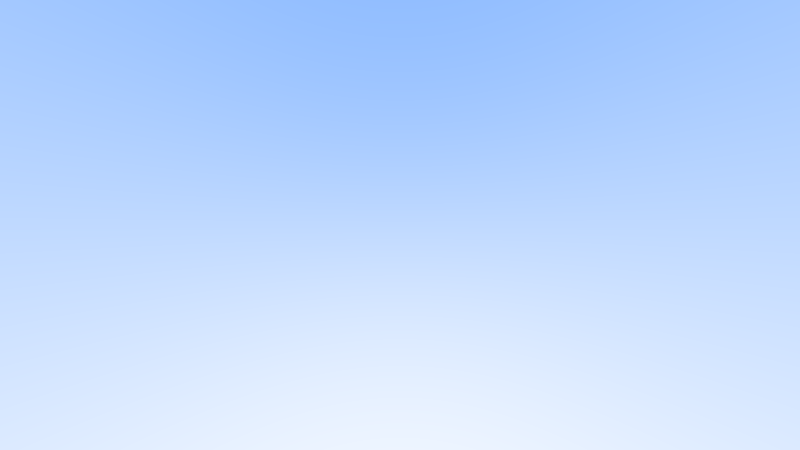
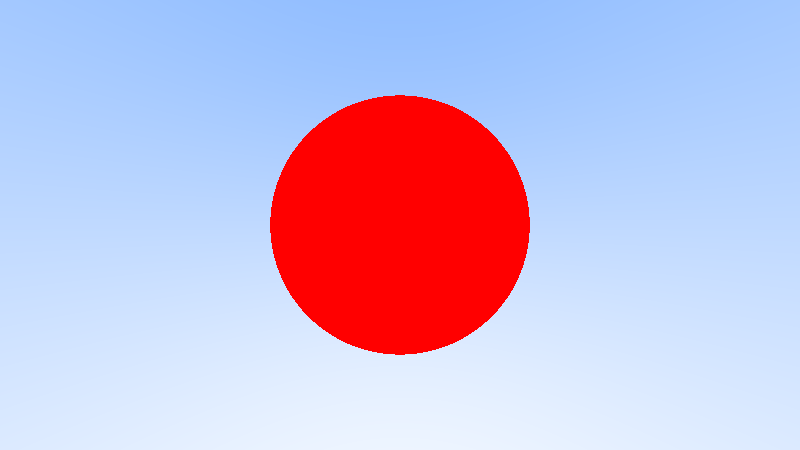
Added red spherical shape
Added red spherical shape

Changed region(s): [[0.3125, 0.1867, 0.6875, 0.8089]]

diff --git a/src/main.rs b/src/main.rs
@@ -9,7 +9,21 @@ use image::{RgbImage,ImageBuffer,Rgb};
 use vec::{Vec3,Color,Point3};
 use ray::Ray;
 
+fn hit_sphere(center: Point3, radius: f64, r: &Ray) -> bool {
+    let oc = r.origin() - center;
+    let a = r.direction().dot(r.direction());
+    let b = 2.0 * oc.dot(r.direction());
+    let c = oc.dot(oc) - radius * radius;
+    let discriminant = b * b - 4.0 * a * c;
+    discriminant > 0.0
+}
+
 fn ray_color(r: &Ray) -> Color {
+
+    if hit_sphere(Point3::new(0.0, 0.0, -1.0), 0.5, r) {
+        return Color::new(1.0, 0.0, 0.0);
+    }
+    
     let unit_direction = r.direction().normalized();
     let t = 0.5 * (unit_direction.y() + 1.0);
     (1.0 - t) * Color::new(1.0, 1.0, 1.0) + t * Color::new(0.5, 0.7, 1.0)
